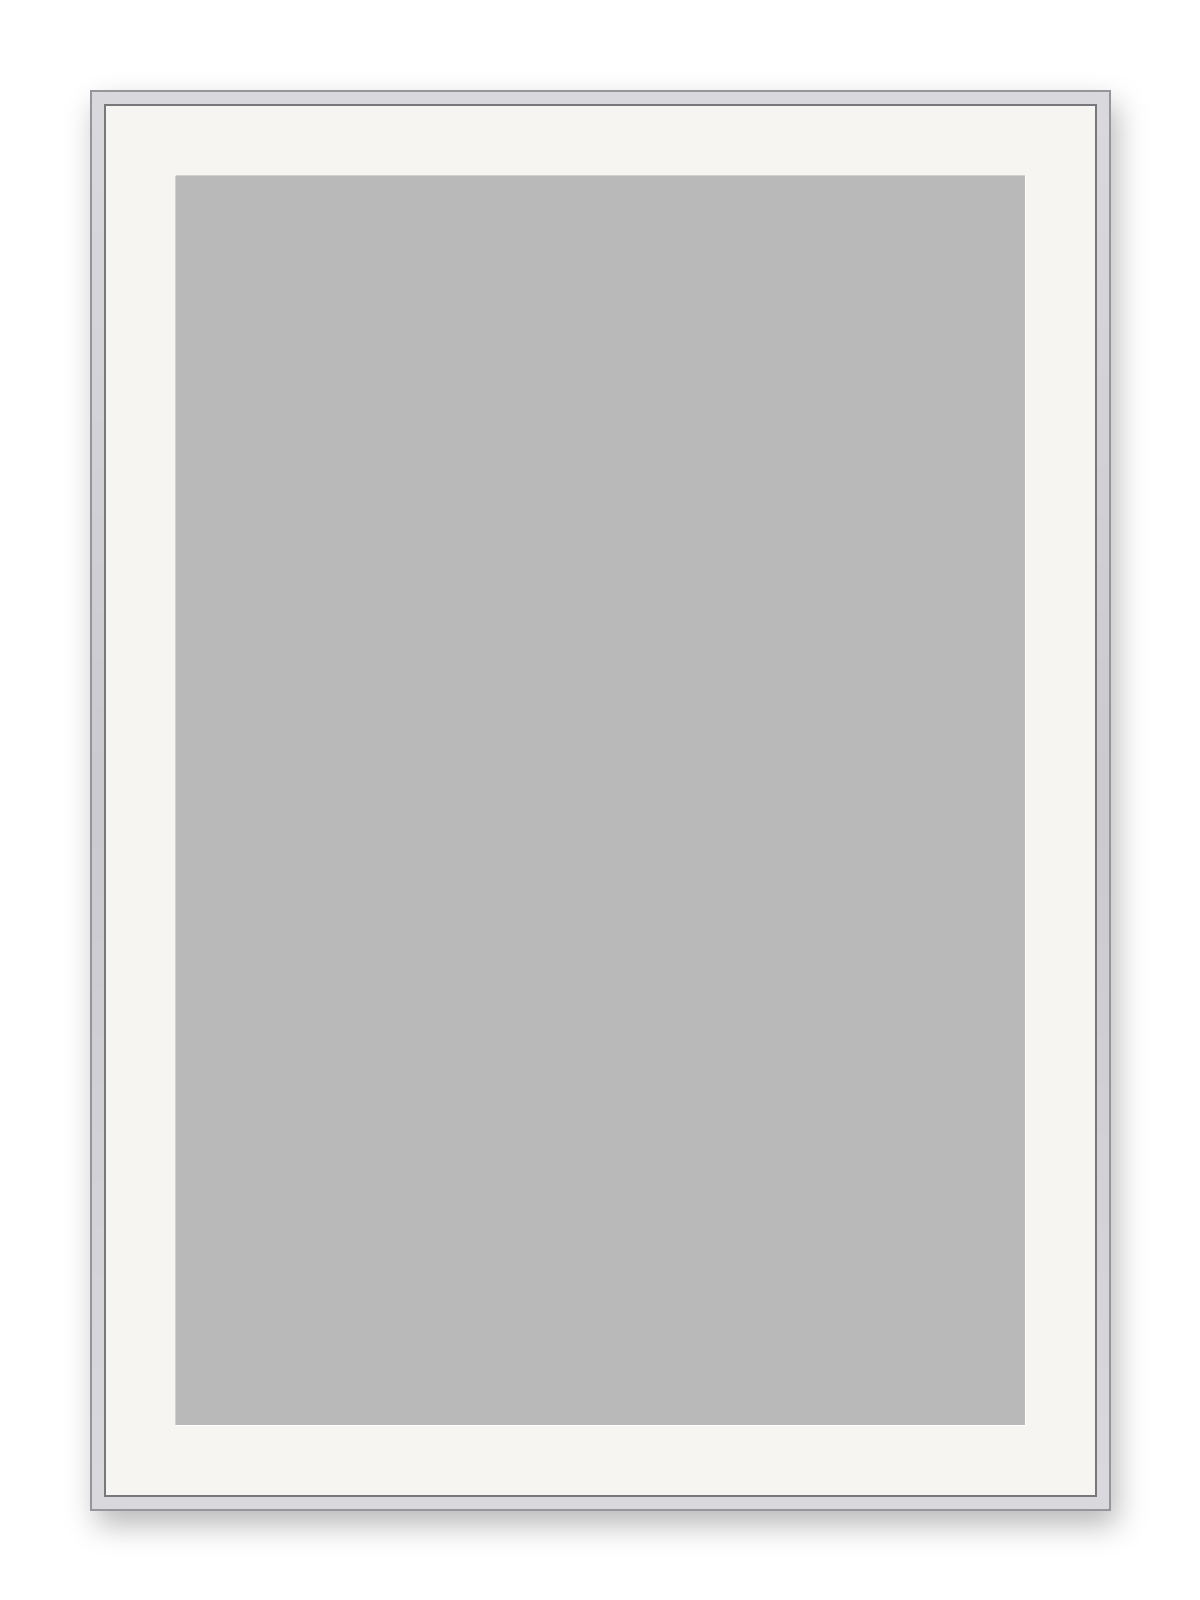
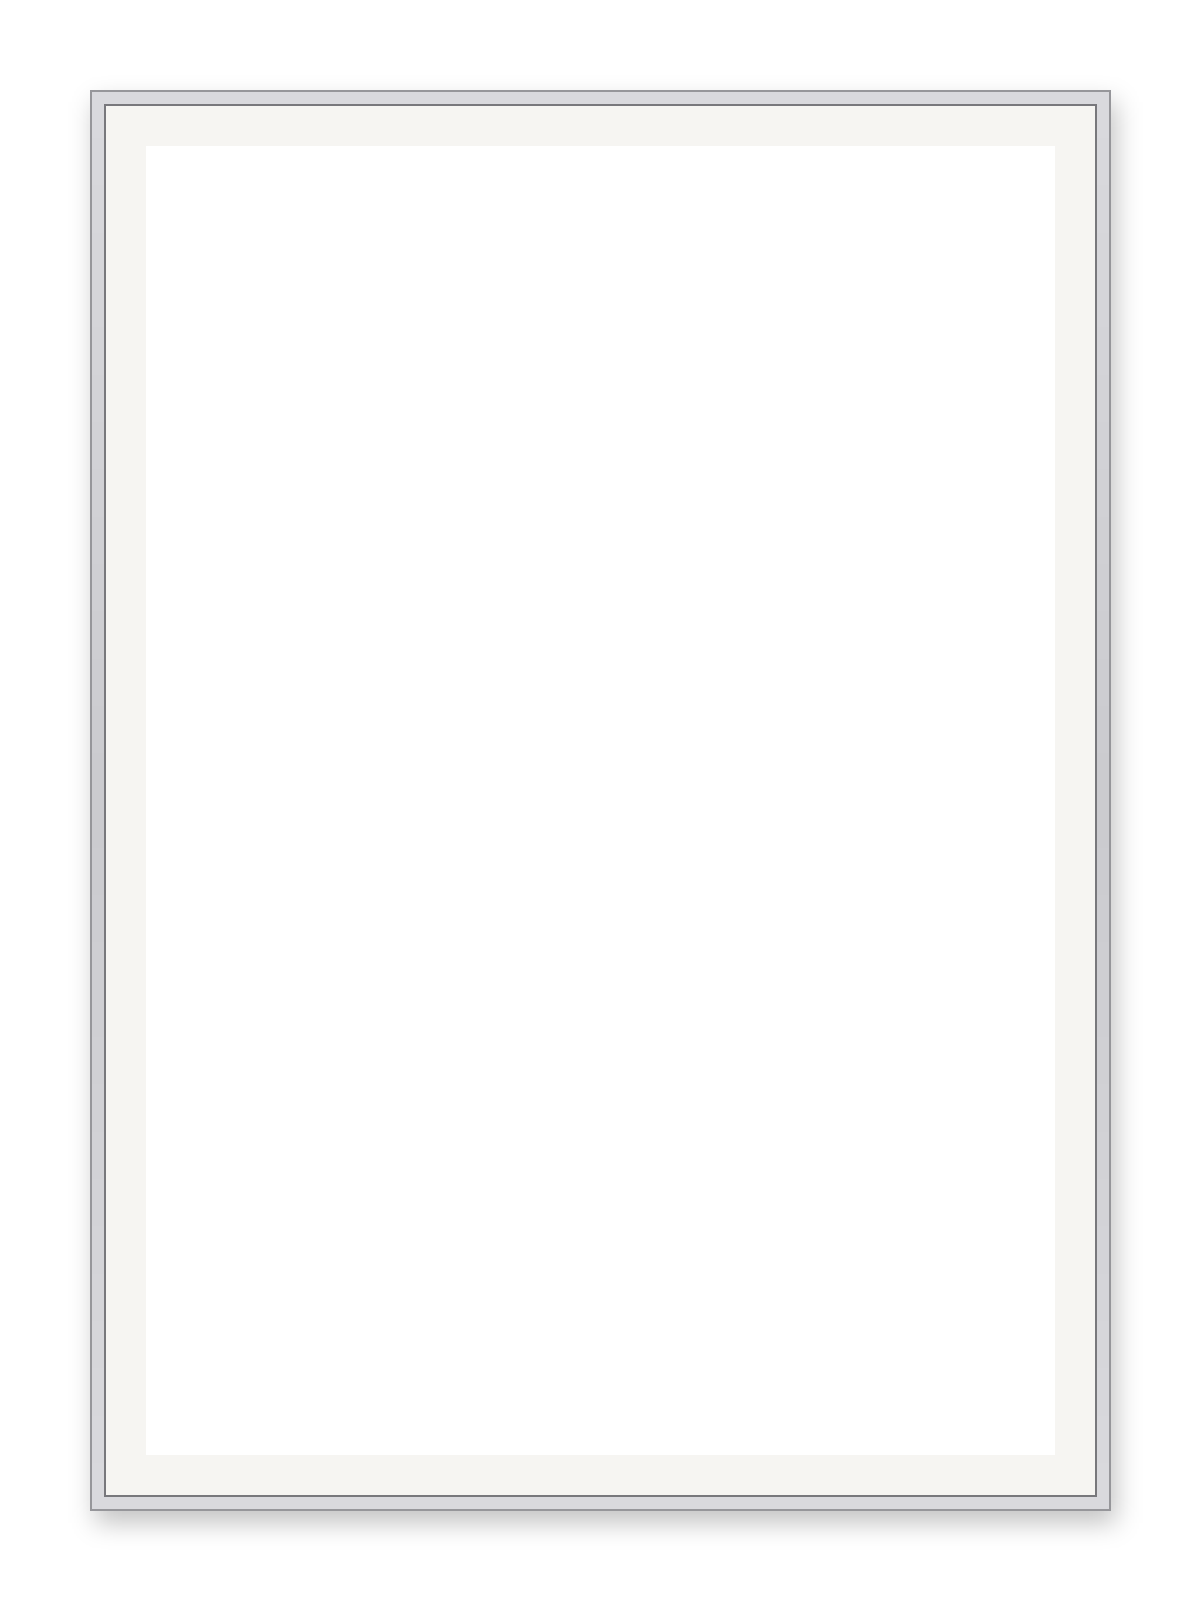
fix: 상품 카드 프레임 개선 — 가로 작품 크롭 수정 및 베일 현상 해결
- object-fit: contain으로 전환해 가로/정방형 작품도 잘림 없이 전체 표시
- 매트 40px로 슬림화, 매트 배경색 통일
- 프레임 PNG 그림자가 아트 윈도우까지 덮던 버그 수정 (이미지가 23% 어둡게 보이던 문제)

diff --git a/src/components/product/ProductCard.module.css b/src/components/product/ProductCard.module.css
@@ -17,16 +17,17 @@
 
 .art {
   position: absolute;
-  /* silver-frame.png 아트 윈도우 영역 (1200×1600 기준 176,176–1024,1424) */
-  left: 14.67%;
-  top: 11%;
-  width: 70.67%;
-  height: 78%;
+  /* silver-frame.png 아트 윈도우 영역 (1200×1600 기준 146,146–1054,1454) */
+  left: 12.167%;
+  top: 9.125%;
+  width: 75.667%;
+  height: 81.75%;
   overflow: hidden;
+  background: #f6f5f2;
 }
 
 .artImage {
-  object-fit: cover;
+  object-fit: contain;
   transition: transform 0.5s ease;
 }
 
